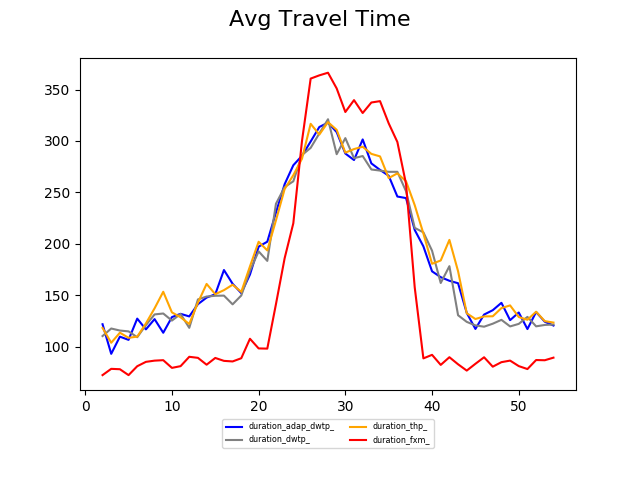
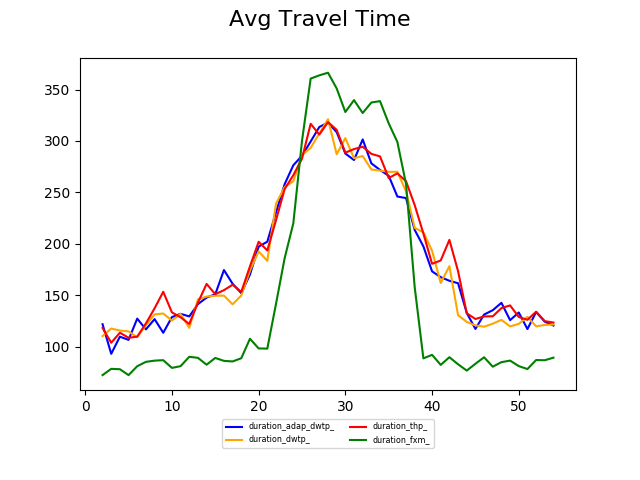
plots exp23

diff --git a/stats/stats_plotter_sumo_base_simulations_exp23.py b/stats/stats_plotter_sumo_base_simulations_exp23.py
@@ -1,5 +1,6 @@
 
 from scipy.interpolate import make_interp_spline, BSpline
+from scipy.interpolate import interp1d
 
 import matplotlib.pyplot as plt
 import pandas as pd
@@ -141,14 +142,19 @@ def plotDemand(ax, fig, output_file, discretizeBy = 600, start_at = 0):
     x = np.array([1, 2, 3, 4, 5, 6, 7, 8, 9, 10, 11, 12, 13, 14, 15, 16, 17, 18])
     y = np.array([10, 10, 20, 20, 40, 40, 60, 80, 100, 80, 60, 60, 40, 40, 20, 20, 20, 20])
     x = (x * factor)
-    x_new = np.linspace(x.min(), x.max(), 1500)
+    x_new = np.linspace(x.min(), x.max(), 100, endpoint=True)
     spl = make_interp_spline(x, y, k = 3)
-    y_smooth = spl(x_new)
-
+    f2 = interp1d(x, y, kind='cubic')
+    #y_smooth = spl(x_new)
+    y_smooth = f2(x_new)
     ax2 = ax.twinx()
-    ax2.set_ylabel('demand', color='#DCDCDC')
-    ax2.plot(x_new[start_at:], y_smooth[start_at:], color='#DCDCDC')
-    fig.tight_layout()
+    ax2.set_ylabel('demand', color='#A9A9A9')
+    ax2.plot(x_new, y_smooth, color='#A9A9A9')
+    #fig.tight_layout()
+    # Shrink current axis's height by 10% on the bottom
+    box = ax2.get_position()
+    ax2.set_position([box.x0, box.y0 + box.height * 0.1,
+                    box.width, box.height * 0.9])
     plt.savefig(output_file)
 
 def generateStatistics(folder, experimentParams, numberOfRuns, label, col, input_ax = None):
@@ -156,20 +162,20 @@ def generateStatistics(folder, experimentParams, numberOfRuns, label, col, input
     #              groupRunsColumn = col, groupRunsFunc = 'mean', discretizeStepBy = 600)
 
 
-    writeTableMinMaxMeanStd(experimentParams, f"./output/{folder}/stats/sumo_full_stats_dwtp_{col}.csv", col, numberOfRuns)
+    writeTableMinMaxMeanStd(experimentParams, f"./output/{folder}/stats/sumo_full_stats_vehn_{col}.csv", col, numberOfRuns)
 
-    ax, fig = createSinglePlotAveragesOnly(folder, f"dwtp_{col}_avg", experimentParams, col, label, discretizeStepBy = 600, input_ax = input_ax, start_at = 2)
-    plotDemand(ax, fig, f"output/{folder}/stats/sumo_full_{col}_single_w_demand.png", discretizeBy = 600, start_at=int(1500 * 2 / 54))
+    ax, fig = createSinglePlotAveragesOnly(folder, f"vehn_{col}_avg", experimentParams, col, label, discretizeStepBy = 600, input_ax = input_ax, start_at = 2)
+    plotDemand(ax, fig, f"output/{folder}/stats/sumo_full_vehn_{col}_single_w_demand.png", discretizeBy = 600, start_at=int(1500 * 2 / 54))
     return ax
 
 if __name__ == '__main__':
 
     experimentPrefix = 'exp23'
     experimentParams = [
-        #{'prefix': 'adap_vehn_', 'configFile': 'configs/single_final_qlearning_adaptative_veh_n_throughput.cfg'},
-        #{'prefix': 'veh_n_', 'configFile': 'configs/single_final_qlearning_avg_vehicle_number.cfg'},
-        {'prefix': 'adap_dwtp_', 'configFile': 'configs/single_final_qlearning_adaptative_delay_throughput.cfg'},
-        {'prefix': 'dwtp_', 'configFile': 'configs/single_final_qlearning_delay_wasted_time_penalty_log.cfg'},
+        {'prefix': 'adap_vehn_', 'configFile': 'configs/single_final_qlearning_adaptative_veh_n_throughput.cfg'},
+        {'prefix': 'veh_n_', 'configFile': 'configs/single_final_qlearning_avg_vehicle_number.cfg'},
+        #{'prefix': 'adap_dwtp_', 'configFile': 'configs/single_final_qlearning_adaptative_delay_throughput.cfg'},
+        #{'prefix': 'dwtp_', 'configFile': 'configs/single_final_qlearning_delay_wasted_time_penalty_log.cfg'},
         {'prefix': 'thp_', 'configFile': 'configs/single_final_qlearning_throughput.cfg'},
         {'prefix': 'fxm_', 'configFile': 'configs/single_final_fixed_time.cfg'},
     ]
